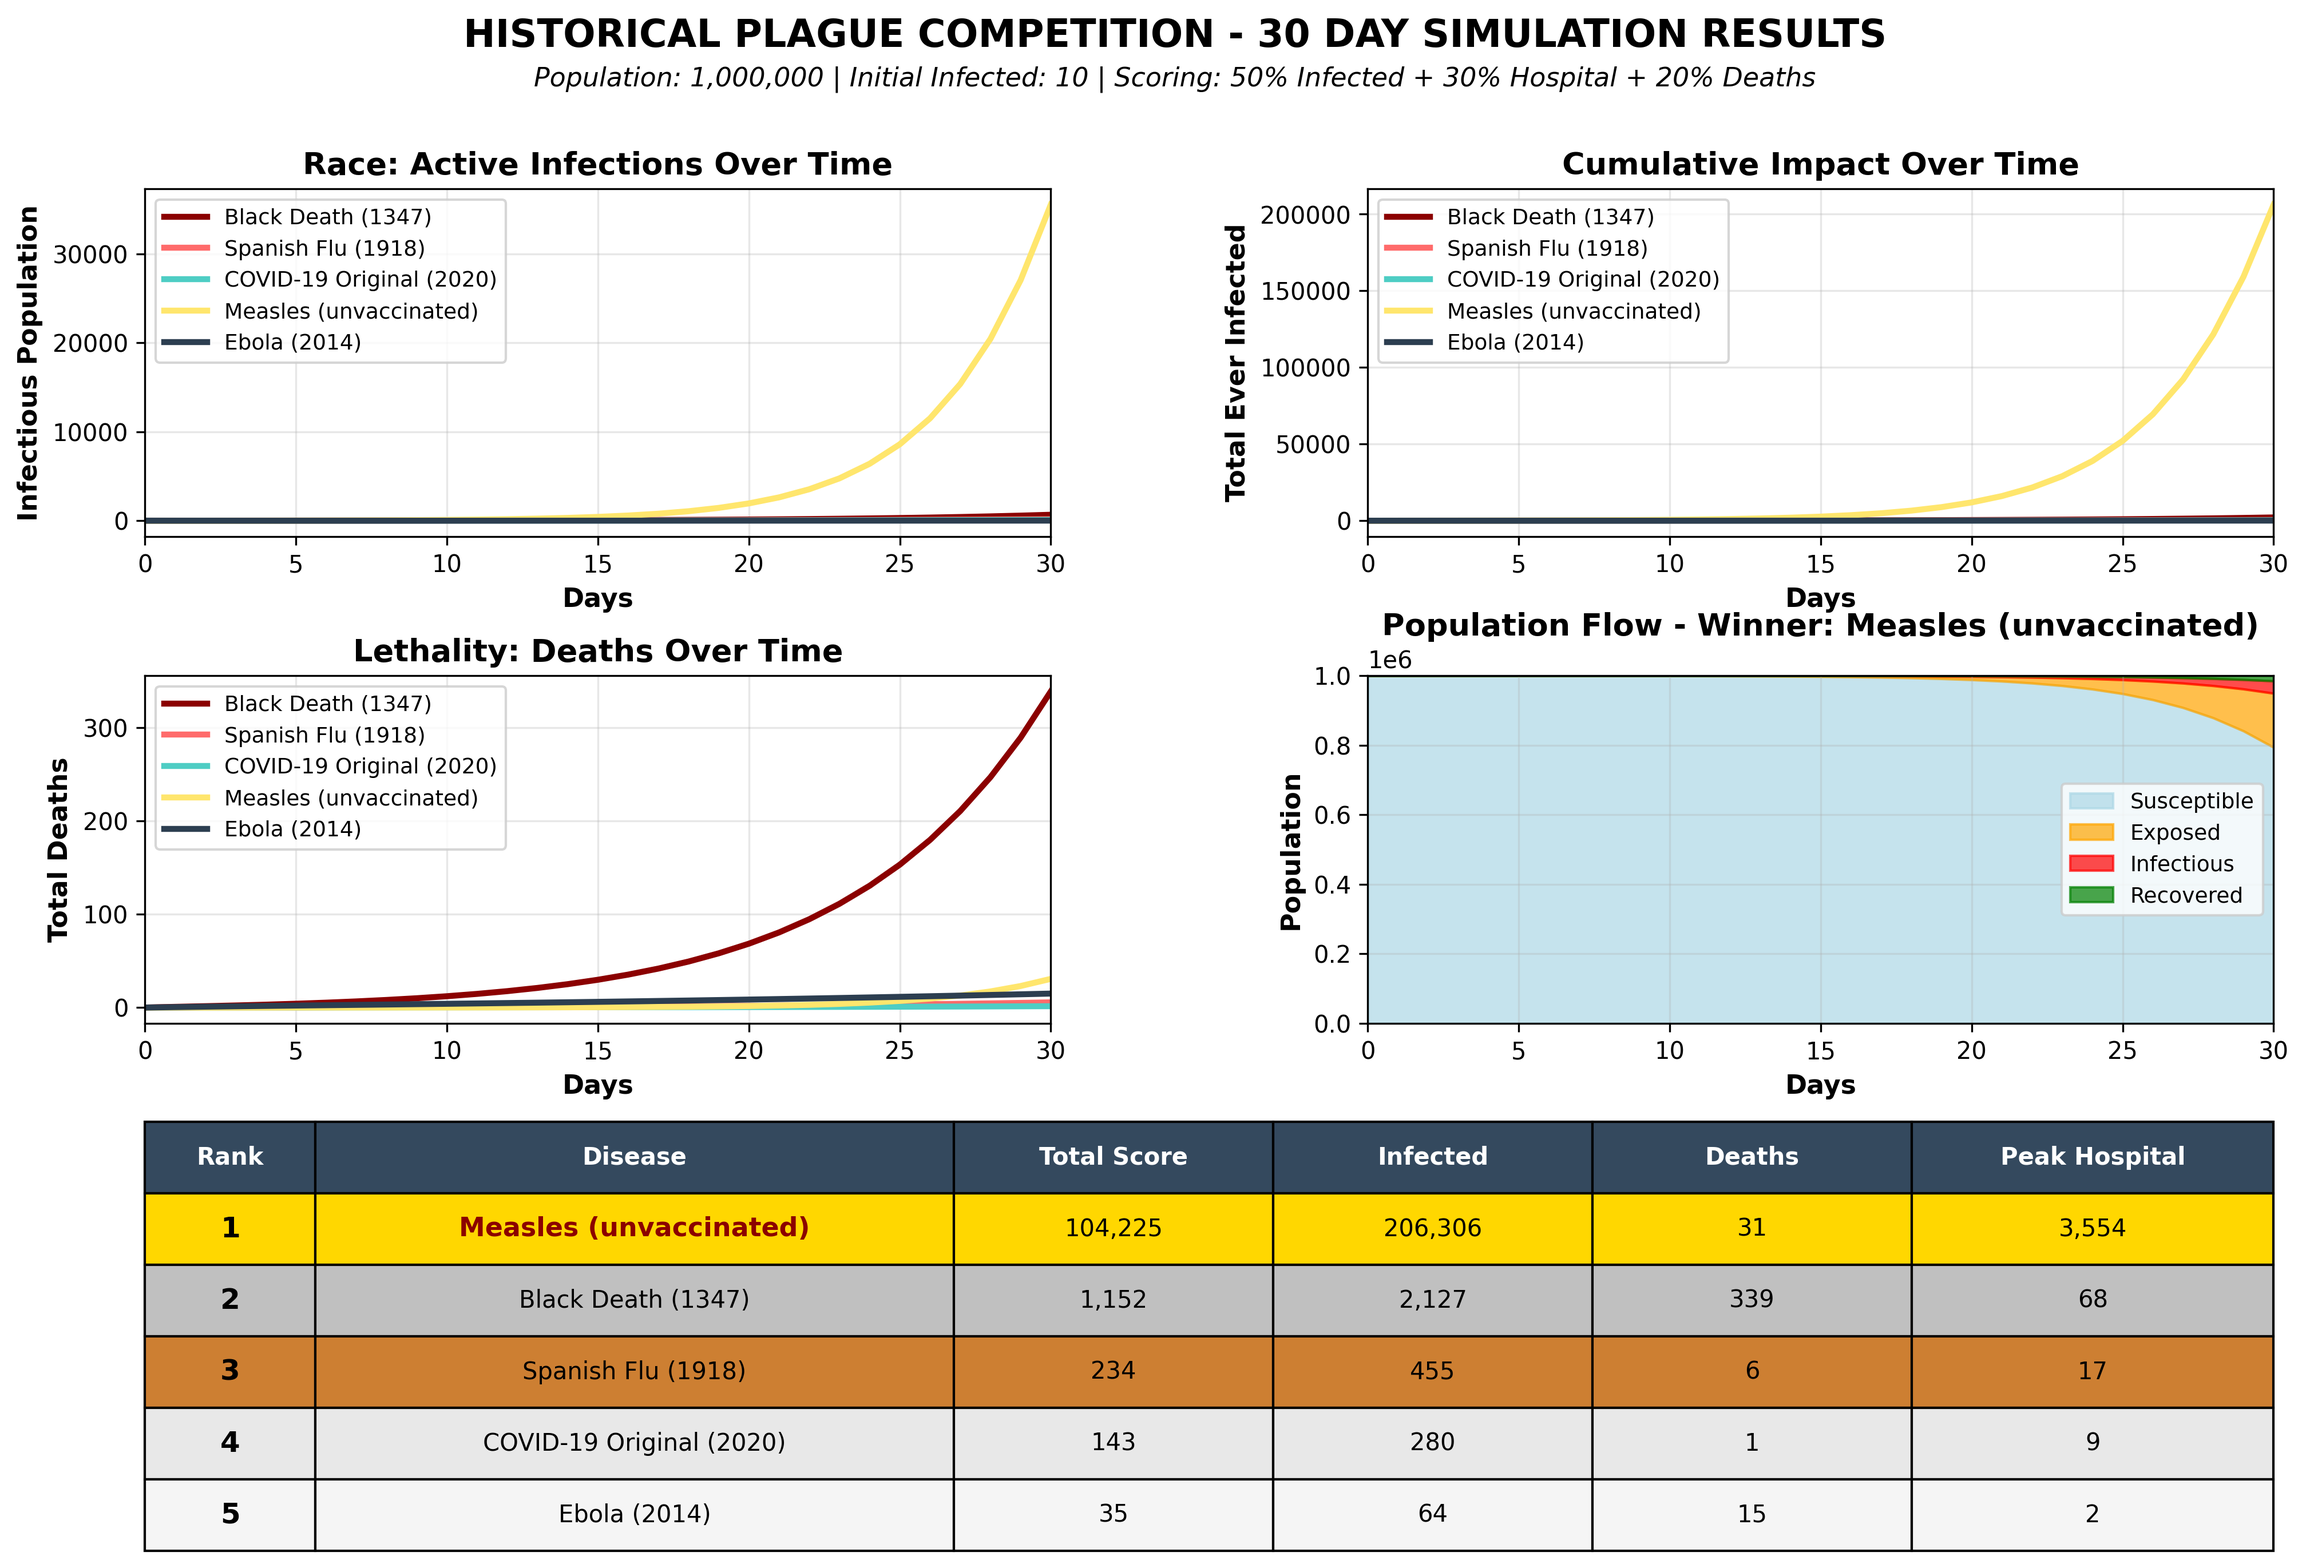
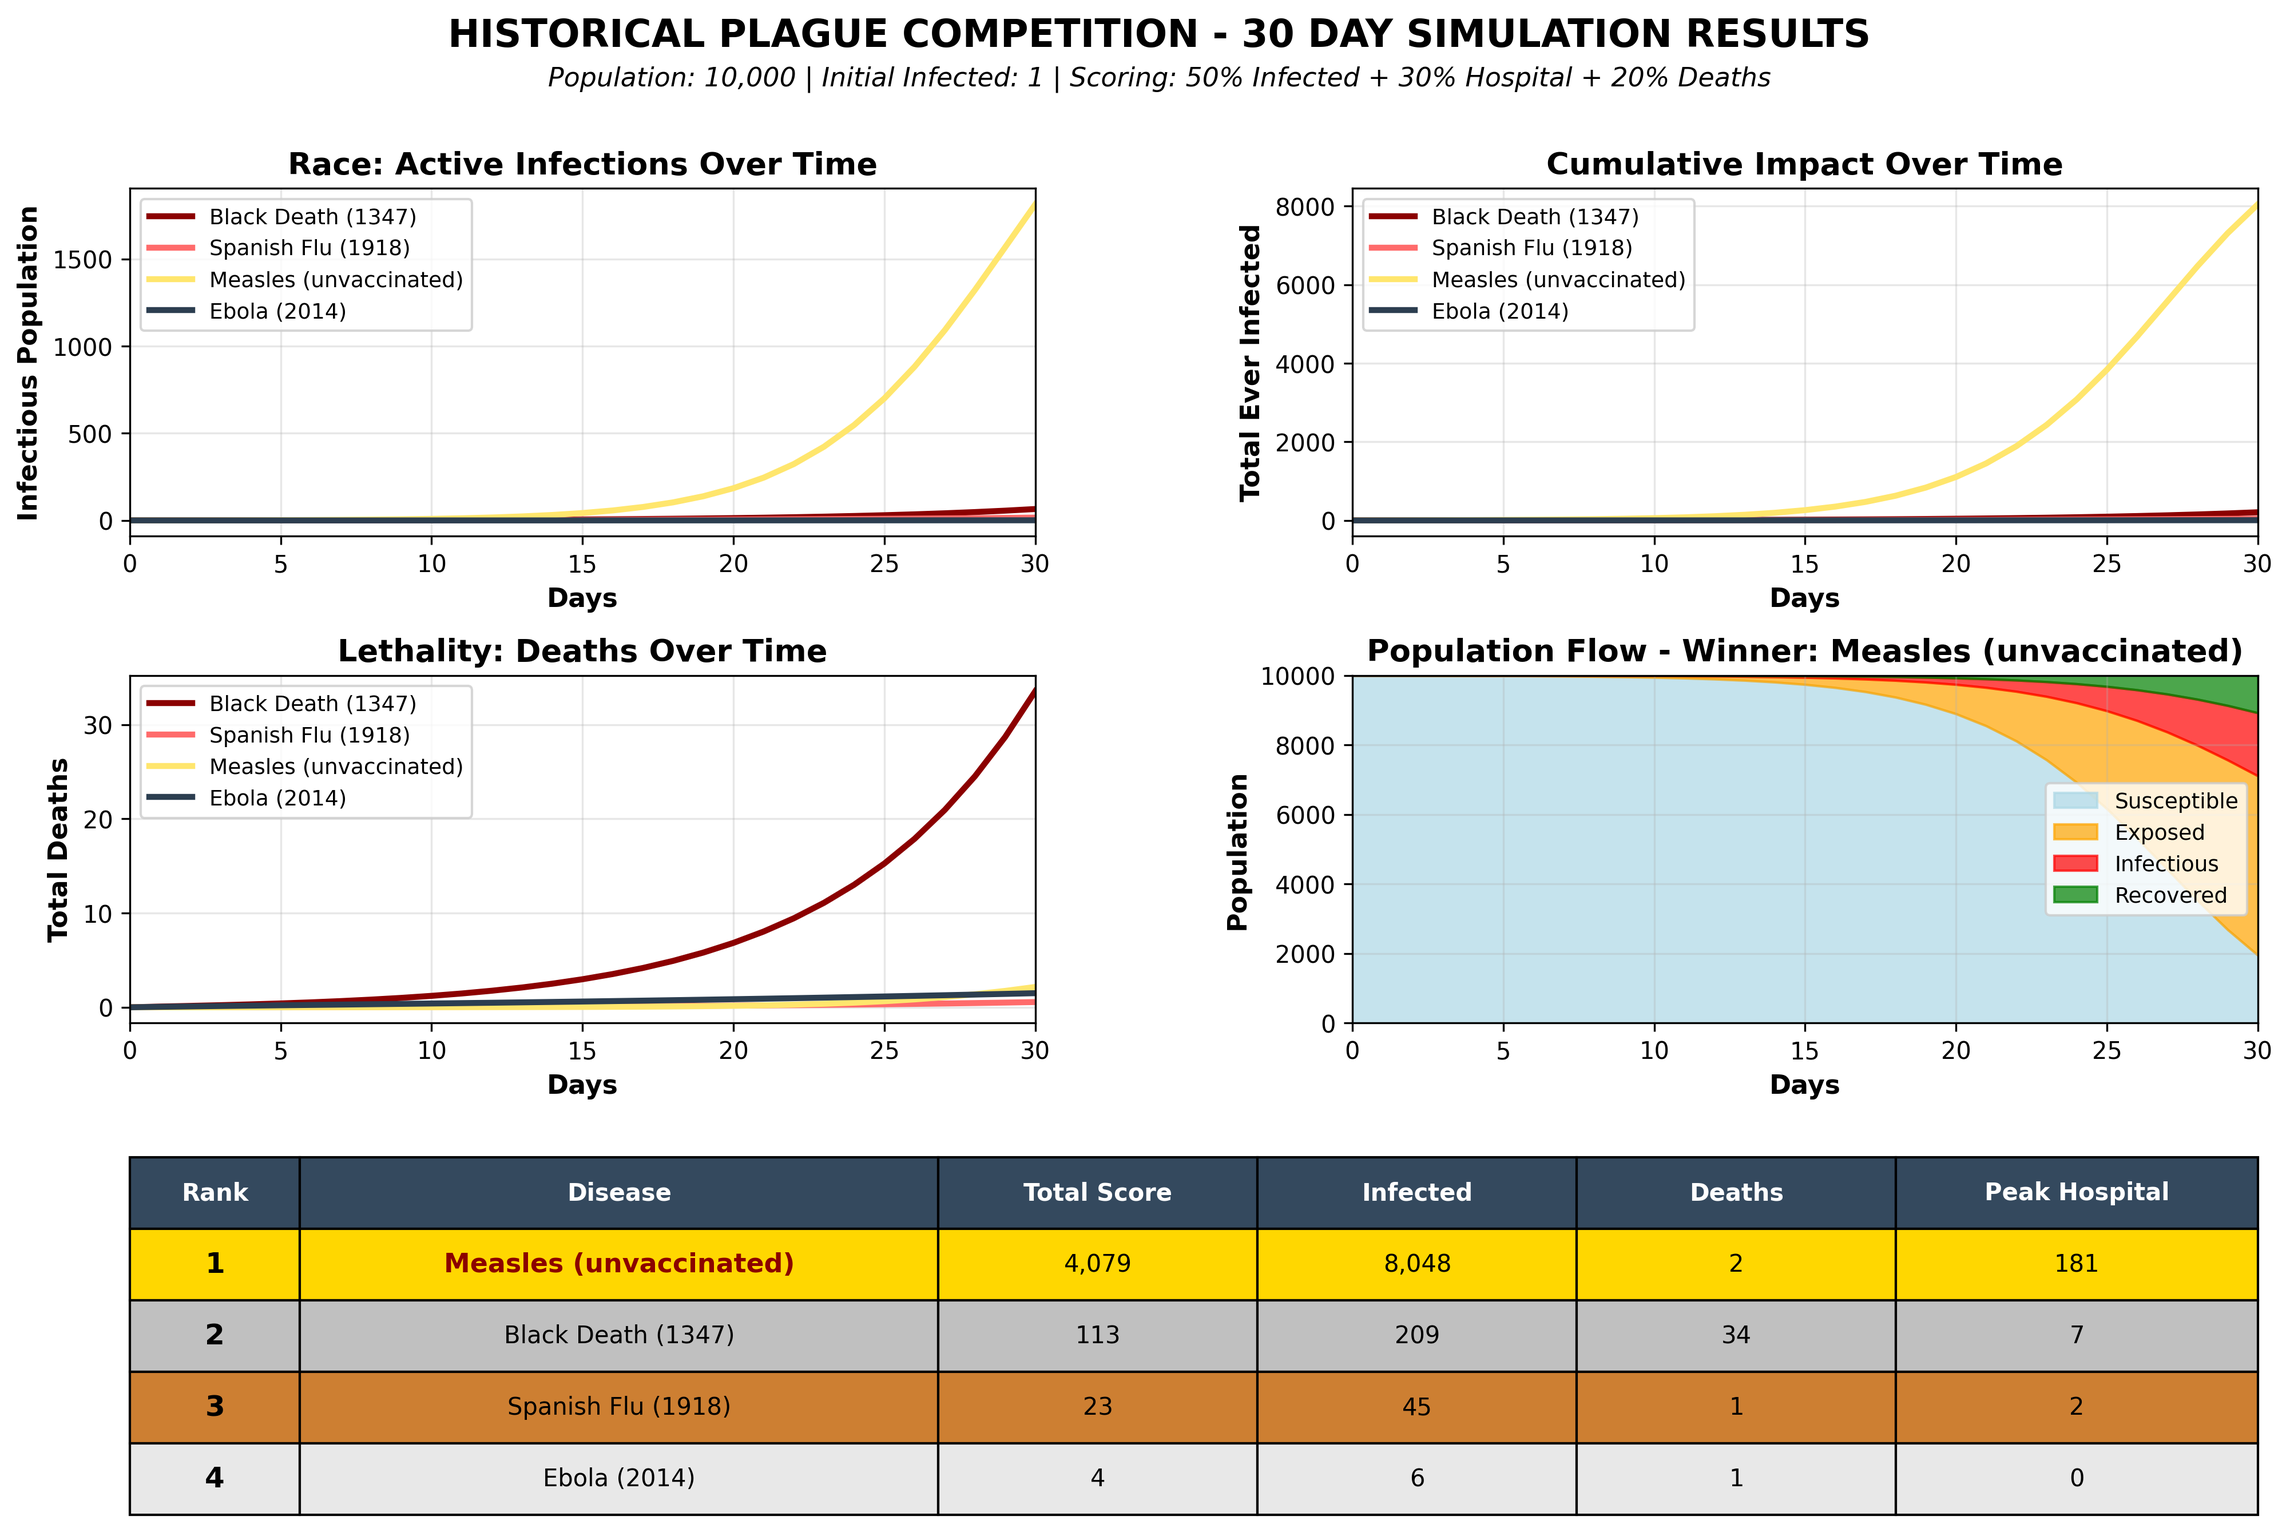
removed covid

diff --git a/seir_seq.py b/seir_seq.py
@@ -177,17 +177,6 @@ def create_historical_scenarios() -> Dict[str, DiseaseParameters]:
             starting_location="military_base"
         ),
         
-        'covid19': DiseaseParameters(
-            name="COVID-19 Original (2020)",
-            r0=2.8,
-            incubation_days=5.0,
-            infectious_days=10.0,
-            fatality_rate=0.015,
-            recovery_days=14.0,
-            asymptomatic_rate=0.40,
-            starting_location="airport"
-        ),
-        
         'measles': DiseaseParameters(
             name="Measles (unvaccinated)",
             r0=15.0,
@@ -215,7 +204,7 @@ def create_historical_scenarios() -> Dict[str, DiseaseParameters]:
 def plot_comparison(all_results: Dict, scenarios: Dict[str, DiseaseParameters], 
                    population: int = 100000, days: int = 30, initial_infected: int = 10):
     """
-    Create comprehensive visualization comparing all 5 plagues
+    Create comprehensive visualization comparing all plagues
     """
     import matplotlib.pyplot as plt
     from matplotlib.gridspec import GridSpec
@@ -390,9 +379,9 @@ def plot_comparison(all_results: Dict, scenarios: Dict[str, DiseaseParameters],
         cell.set_facecolor('#34495e')
         cell.set_text_props(weight='bold', color='white')
     
-    # Color-code ranks
-    rank_colors = ['#FFD700', '#C0C0C0', '#CD7F32', '#E8E8E8', '#F5F5F5']  # Gold, Silver, Bronze, etc.
-    for i in range(1, 6):
+    # Color-code ranks (now for 4 scenarios)
+    rank_colors = ['#FFD700', '#C0C0C0', '#CD7F32', '#E8E8E8']  # Gold, Silver, Bronze, 4th place
+    for i in range(1, len(scores_data) + 1):
         for j in range(6):
             cell = table[(i, j)]
             cell.set_facecolor(rank_colors[i-1])
@@ -524,19 +513,27 @@ if __name__ == "__main__":
         print("\n" + "="*70)
         print("GENERATING VISUALIZATIONS...")
         print("="*70)
-        
-        try:
-            # Main comparison plot
-            fig = plot_comparison(all_results, scenarios, population=args.population, days=args.days, initial_infected=args.initial_infected)
-            output_file = f"plagues_competition_{args.days}.png"
-            plt.savefig(output_file, dpi=300, bbox_inches='tight')
-            print(f"\n✓ Saved comparison plot: {output_file}")
-            # Show the plot
-            plt.show()
+
+        fig = plot_comparison(all_results, scenarios, population=args.population, days=args.days, initial_infected=args.initial_infected)
+        output_file = f"plagues_competition_{args.days}.png"
+        plt.savefig(output_file, dpi=300, bbox_inches='tight')
+        print(f"\n✓ Saved comparison plot: {output_file}")
+        # Show the plot
+        plt.show()
             
-        except Exception as e:
-            print(f"\n⚠ Visualization failed: {e}")
-            print("Continuing without visualization...")
+        
+        # try:
+        #     # Main comparison plot
+        #     fig = plot_comparison(all_results, scenarios, population=args.population, days=args.days, initial_infected=args.initial_infected)
+        #     output_file = f"plagues_competition_{args.days}.png"
+        #     plt.savefig(output_file, dpi=300, bbox_inches='tight')
+        #     print(f"\n✓ Saved comparison plot: {output_file}")
+        #     # Show the plot
+        #     plt.show()
+            
+        # except Exception as e:
+        #     print(f"\n⚠ Visualization failed: {e}")
+        #     print("Continuing without visualization...")
 
     
 
